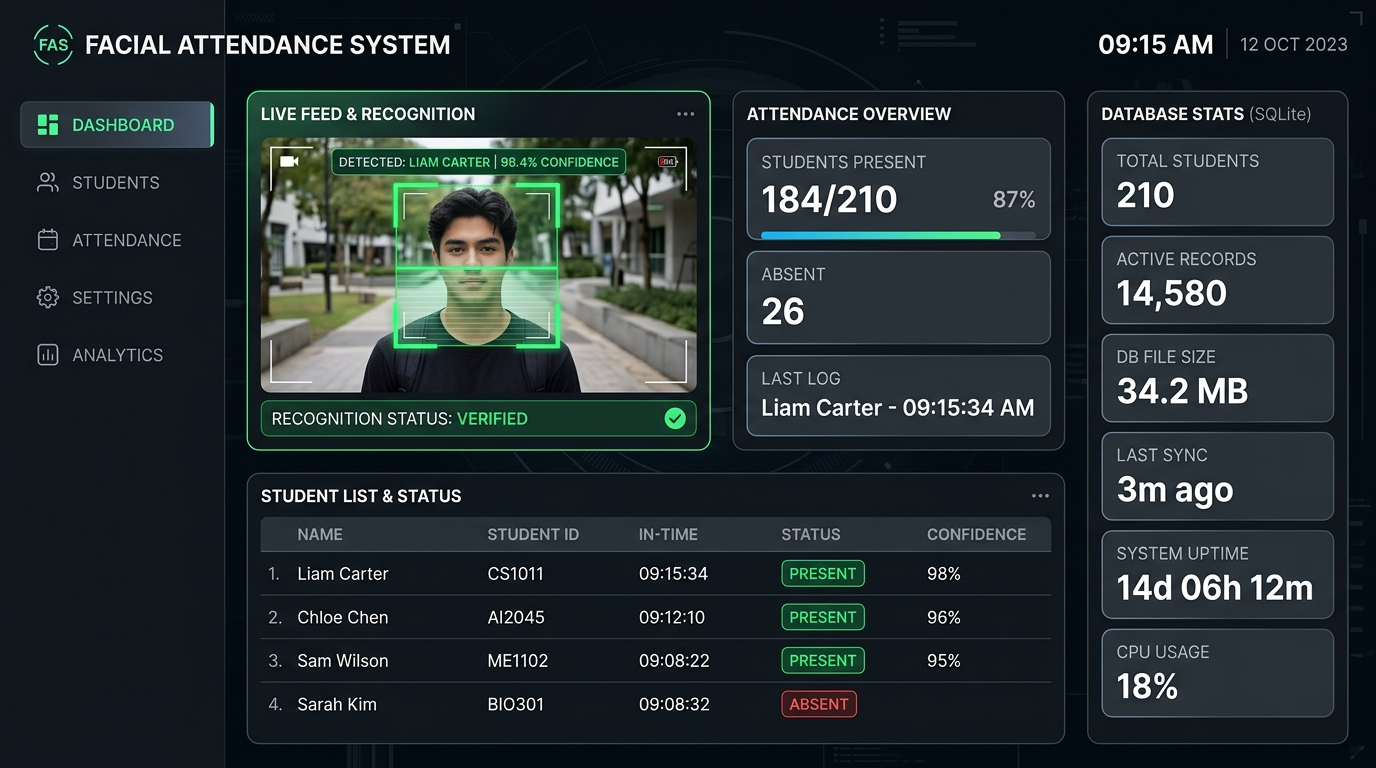
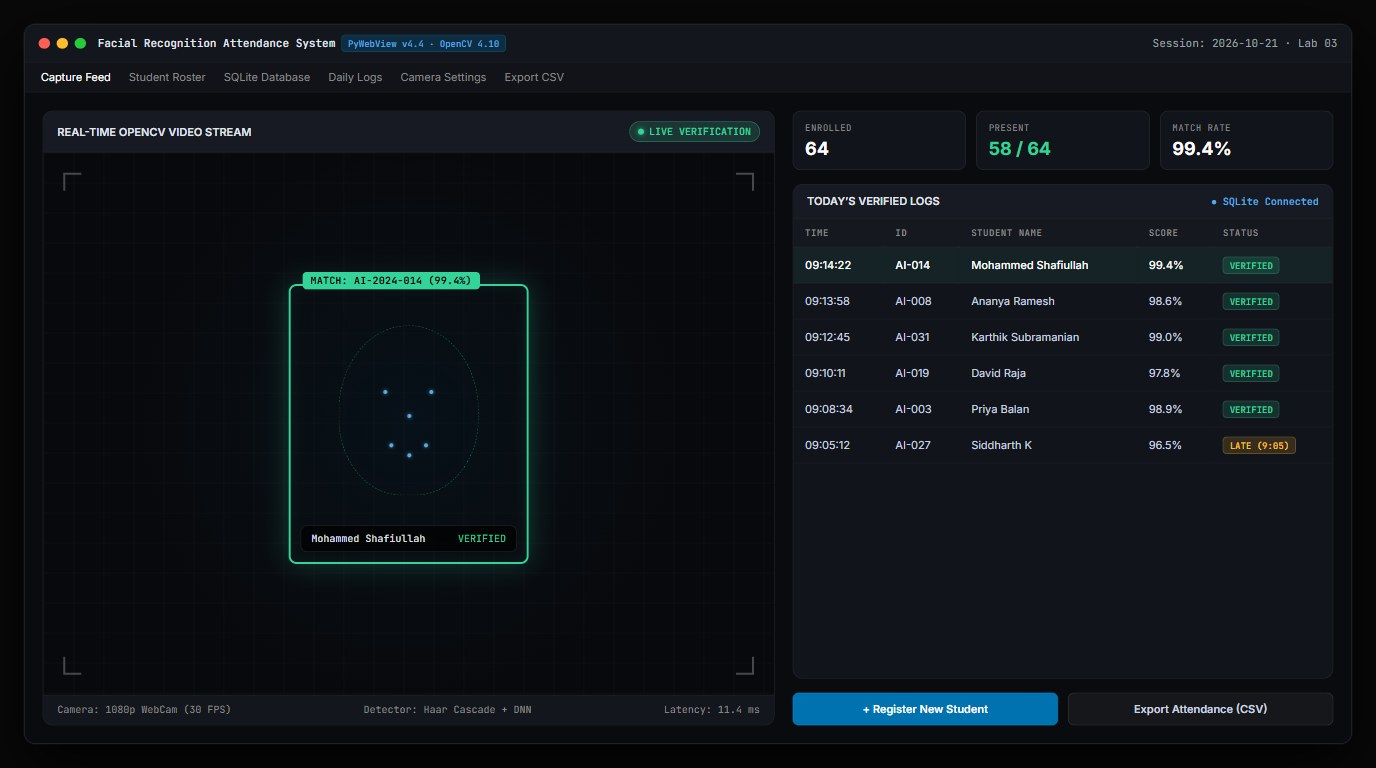
feat(projects): add authentic high-res UI previews with WebP and progressive JPEG fallbacks

diff --git a/src/components/Projects.jsx b/src/components/Projects.jsx
@@ -5,7 +5,8 @@ const PROJECTS = [
   {
     title: 'Facial Recognition Attendance System',
     category: 'Desktop Computer Vision Application',
-    image: '/attendance-preview.jpg',
+    image: 'attendance-preview.jpg',
+    webpImage: 'attendance-preview.webp',
     description:
       'A desktop attendance application combining computer vision face detection with an embedded web dashboard. It registers students via live webcam capture, matches enrolled facial features in real-time, and logs verified attendance records in a local SQLite database.',
     features: [
@@ -22,13 +23,14 @@ const PROJECTS = [
   {
     title: 'Personal Developer Portfolio Website',
     category: 'Web Application & Design System',
-    image: '/portfolio-preview.jpg',
+    image: 'portfolio-preview.jpg',
+    webpImage: 'portfolio-preview.webp',
     description:
-      'A modern developer portfolio website engineered to showcase candidate capabilities, academic background, and technical projects for software development internship applications. Rebuilt using DesignFast’s sleek Framer design language.',
+      'A modern developer portfolio website engineered to showcase technical capabilities, academic background, and projects. Rebuilt using the sleek Framer DesignFast design language.',
     features: [
       'Sleek dark design language adapted from the Framer DesignFast template',
       'Fully responsive layouts engineered for desktop, tablet, and mobile',
-      'Interactive 1-click clipboard copy, accessible mobile navigation drawer',
+      'Accessible mobile navigation drawer with focus trapping and keyboard support',
       'Zero bloated third-party UI component libraries — clean, modular CSS',
     ],
     technologies: ['React.js', 'JavaScript', 'CSS3', 'Vite', 'Git', 'GitHub'],
@@ -61,12 +63,20 @@ function Projects() {
             <article className="df-card df-project-card" key={project.title}>
               {/* Media Preview */}
               <div className="df-project-card__media">
-                <img
-                  src={project.image}
-                  alt={`${project.title} interface preview`}
-                  className="df-project-card__img"
-                  loading="lazy"
-                />
+                <picture>
+                  <source
+                    srcSet={`${import.meta.env.BASE_URL}${project.webpImage}`}
+                    type="image/webp"
+                  />
+                  <img
+                    src={`${import.meta.env.BASE_URL}${project.image}`}
+                    alt={`${project.title} interface preview`}
+                    className="df-project-card__img"
+                    loading="lazy"
+                    width="800"
+                    height="450"
+                  />
+                </picture>
               </div>
 
               {/* Content */}
@@ -81,7 +91,7 @@ function Projects() {
                   <ul className="df-project-card__features-list">
                     {project.features.map((feat) => (
                       <li key={feat} className="df-project-card__feature-item">
-                        <span className="df-project-card__bullet">✓</span>
+                        <span className="df-project-card__bullet">{'\u2713'}</span>
                         <span>{feat}</span>
                       </li>
                     ))}
